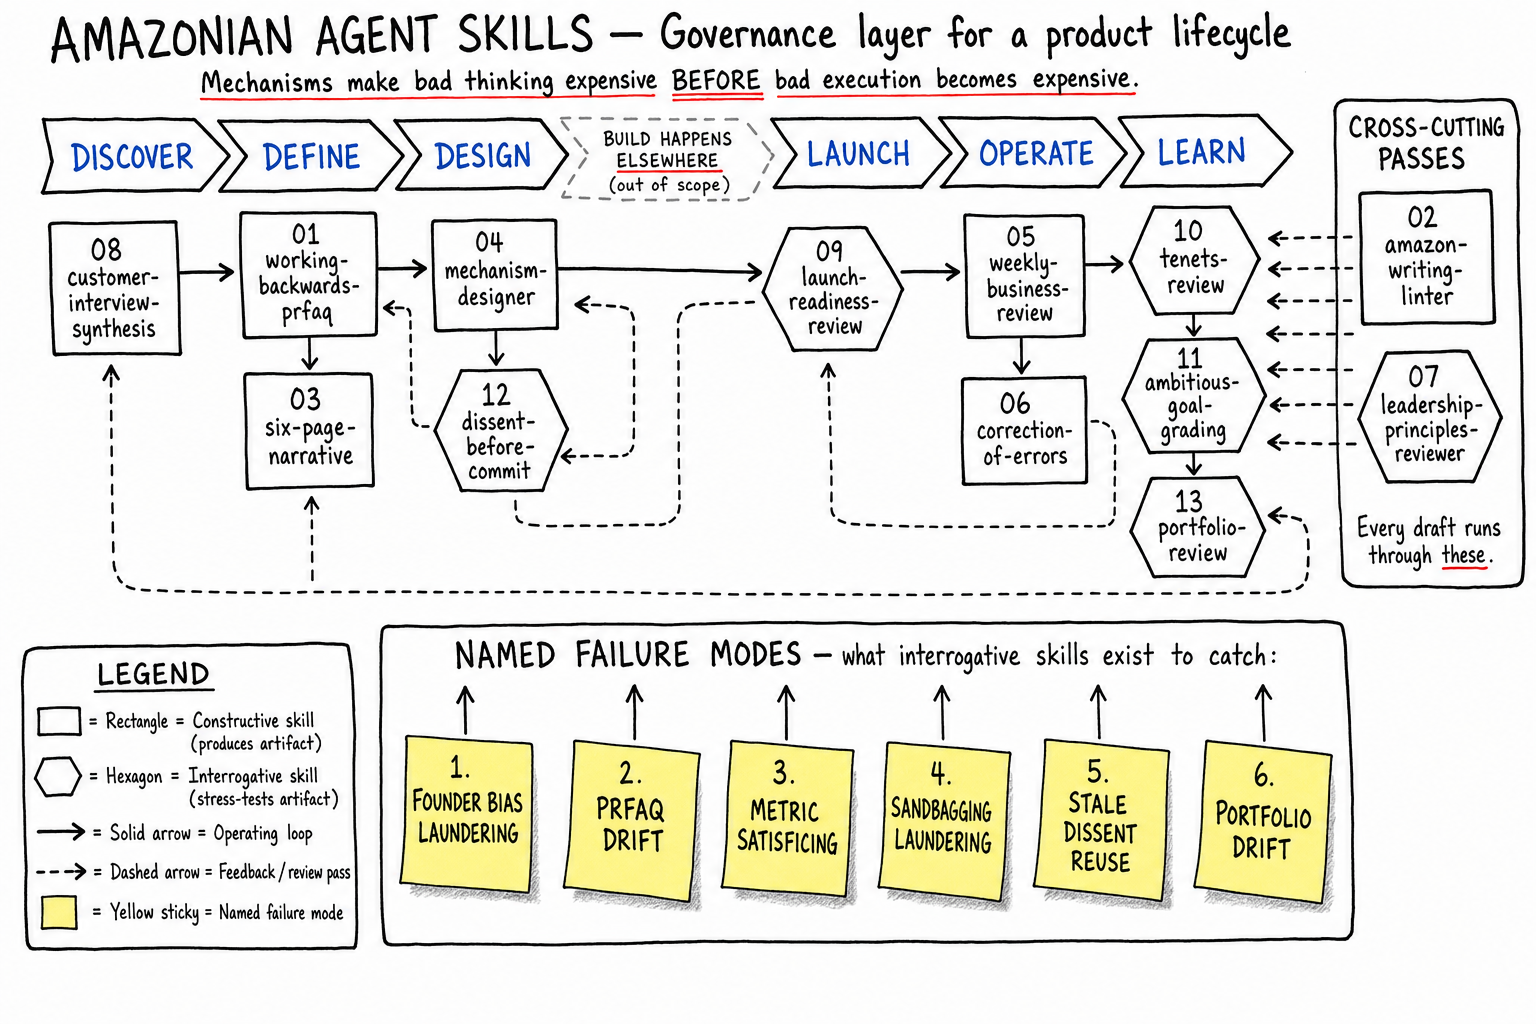
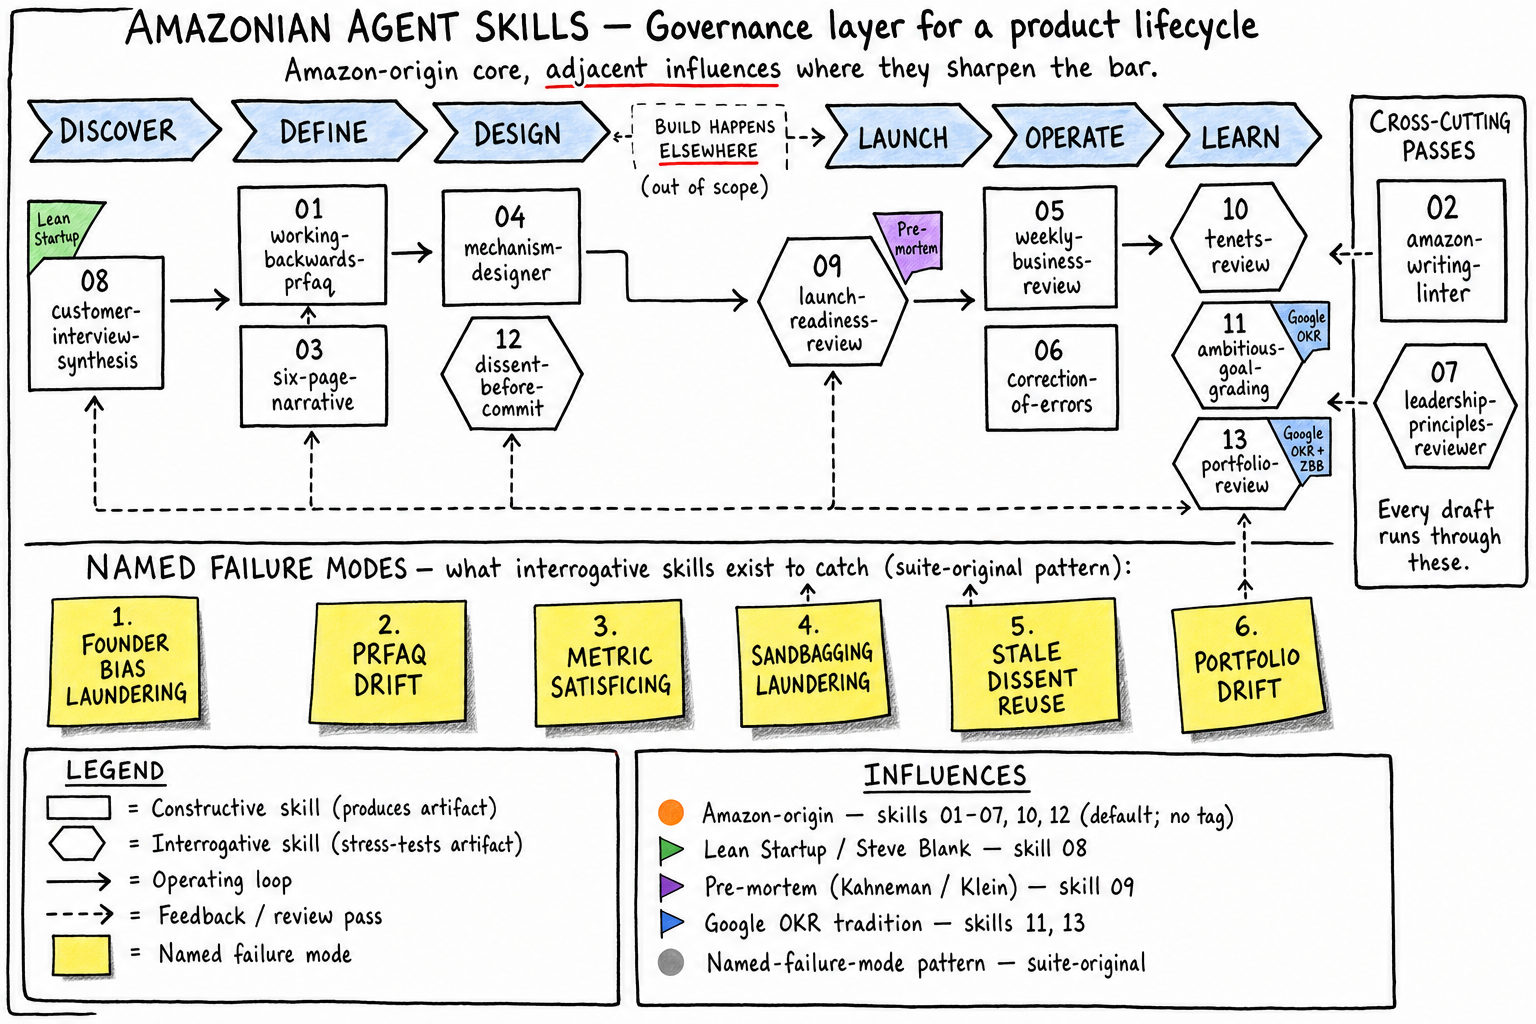
docs(readme): surface non-Amazon influences on the whiteboard infographic
The prior infographic flattened all 13 skills under the "Amazonian" banner,
contradicting the README's own Influences section. Replace it with a version
that tags the four non-Amazon-origin skills with small corner flags (08 Lean
Startup, 09 Pre-mortem, 11 and 13 Google OKR) and adds an INFLUENCES key
beside the legend so "Amazonian" reads as origin, not identity.

Also updates the README alt text to describe the new tags and key panel.

diff --git a/README.md b/README.md
@@ -18,7 +18,7 @@ A small, opinionated suite of agent skills that translates **operational discipl
 Most agent skills tell the model to "be thoughtful." That is not a mechanism; that is a vibe. The skills in this suite refuse to emit output if the inputs are vague, tag claims with `[assumption]` when evidence is thin, hand off to the next skill in a deterministic chain, and — for any skill that gates an artifact's ongoing validity over time — declare a [named failure mode](GLOSSARY.md#named-failure-modes-cross-reference) they exist to catch.
 
 <p align="center">
-  <img src="docs/amazonian-skills-whiteboard.png" alt="Whiteboard-style infographic mapping the 13 Amazonian skills onto the product lifecycle (Discover, Define, Design, Build [out of scope], Launch, Operate, Learn). Constructive skills are shown as rectangles, interrogative skills as hexagons. A side rail shows the two cross-cutting passes (amazon-writing-linter and leadership-principles-reviewer). Six yellow sticky notes along the bottom name the failure modes the interrogative skills exist to catch: founder bias laundering, PRFAQ drift, metric satisficing, sandbagging laundering, stale dissent reuse, and portfolio drift." width="900" />
+  <img src="docs/amazonian-skills-whiteboard.png" alt="Whiteboard-style infographic mapping the 13 Amazonian skills onto the product lifecycle (Discover, Define, Design, Build [out of scope], Launch, Operate, Learn). Constructive skills are shown as rectangles, interrogative skills as hexagons. Skill 08 carries a Lean Startup tag, skill 09 a Pre-mortem tag, and skills 11 and 13 carry Google-OKR tags, reflecting the suite's mixed-origin influences. A side rail shows the two cross-cutting passes (amazon-writing-linter and leadership-principles-reviewer). Six yellow sticky notes along the bottom name the failure modes the interrogative skills exist to catch: founder bias laundering, PRFAQ drift, metric satisficing, sandbagging laundering, stale dissent reuse, and portfolio drift. A bottom-corner Influences panel keys the four non-Amazon traditions (Lean Startup, Pre-mortem, Google OKR) plus the suite-original named-failure-mode pattern." width="900" />
 </p>
 
 ## What this suite is
